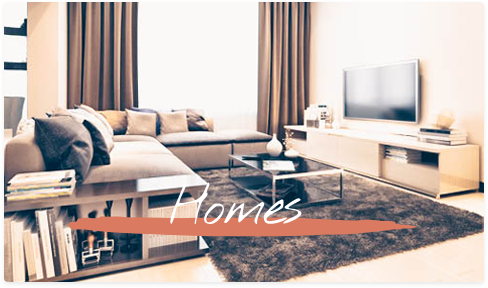
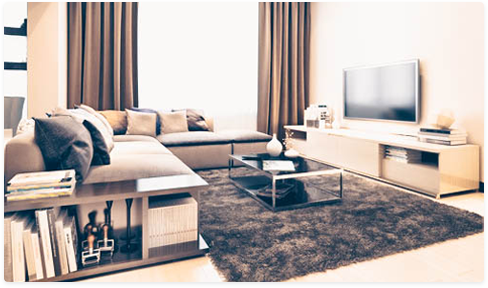
Home screen selector of home and hotels changed

Changed region(s): [[0.123, 0.625, 0.8607, 0.8438]]

diff --git a/src/components/screens/Explore/index.js b/src/components/screens/Explore/index.js
@@ -22,7 +22,7 @@ import {
 } from '../../../utils/requester';
 import Toast from 'react-native-simple-toast';
 
-const shouldBeNative = true; //This line controls which screen should be shown when clicked on search, it its true it will take to hardcoded hotel else will take to webview
+const shouldBeNative = false; //This line controls which screen should be shown when clicked on search, it its true it will take to hardcoded hotel else will take to webview
 
 class Explore extends Component {
     static propTypes = {
@@ -528,6 +528,70 @@ class Explore extends Component {
         );
     }
 
+    renderHotelSelected(){
+        return(
+            <View
+                style={{width: '100%',height: '100%', position: 'absolute'}}>
+                <Image
+                    style= {{flex: 1,
+                        margin: 20,
+                        width: null,
+                        height: null,
+                        resizeMode: 'contain'}}
+                    source={require('../../../assets/home_images/hotels_selected.png')}
+                />
+            </View>
+        )
+    }
+
+    renderHotelDeSelected(){
+        return(
+            <View
+                style={{width: '100%',height: '100%', position: 'absolute'}}>
+                <Image
+                    style= {{flex: 1,
+                        margin: 20,
+                        width: null,
+                        height: null,
+                        resizeMode: 'contain'}}
+                    source={require('../../../assets/home_images/hotels_not_selected.png')}
+                />
+            </View>
+        )
+    }
+
+    renderHomeSelected(){
+        return(
+            <View
+                style={{width: '100%',height: '100%', position: 'absolute'}}>
+                <Image
+                    style= {{flex: 1,
+                        margin: 20,
+                        width: null,
+                        height: null,
+                        resizeMode: 'contain'}}
+                    source={require('../../../assets/home_images/homes_selected.png')}
+                />
+            </View>
+        )
+    }
+
+    renderHomeDeSelected(){
+        return(
+            <View
+                style={{width: '100%',height: '100%', position: 'absolute'}}>
+                <Image
+                    style= {{flex: 1,
+                        margin: 20,
+                        width: null,
+                        height: null,
+                        resizeMode: 'contain'}}
+                    source={require('../../../assets/home_images/homes__not_selected.png')}
+                />
+            </View>
+        )
+    }
+
     render() {
         const {
             adults, children, infants, search, checkInDate, checkOutDate, guests, topHomes, onDatesSelect, countries
@@ -561,12 +625,13 @@ class Explore extends Component {
                         <View style={styles.viewDiscover}>
 
                             <TouchableOpacity onPress={() => this.setState({ searchHotel: true })}
-                                              style={this.state.searchHotel ? [styles.imageViewDiscoverLeft, styles.touchableOpacityHighlight] : styles.imageViewDiscoverLeft}>
+                                              style={styles.imageViewDiscoverLeft}>
                                 <Image style={{
                                     height: '100%',
                                     width: '100%'
                                 }} resizeMode='stretch'
                                        source={require('../../../assets/home_images/hotels.png')}/>
+                                {this.state.searchHotel ? this.renderHotelSelected() : this.renderHotelDeSelected()}
                             </TouchableOpacity>
 
                             <TouchableOpacity onPress={() => this.setState({
@@ -575,12 +640,13 @@ class Explore extends Component {
                                 search: '',
                                 regionId: 0
                             })}
-                                              style={!this.state.searchHotel ? [styles.imageViewDiscoverLeft, styles.touchableOpacityHighlight] : styles.imageViewDiscoverLeft}>
+                                              style={styles.imageViewDiscoverLeft}>
                                 <Image style={{
                                     height: '100%',
                                     width: '100%'
                                 }} resizeMode='stretch'
                                        source={require('../../../assets/home_images/homes.png')}/>
+                                {!this.state.searchHotel ? this.renderHomeSelected() : this.renderHomeDeSelected()}
                             </TouchableOpacity>
 
                         </View>
